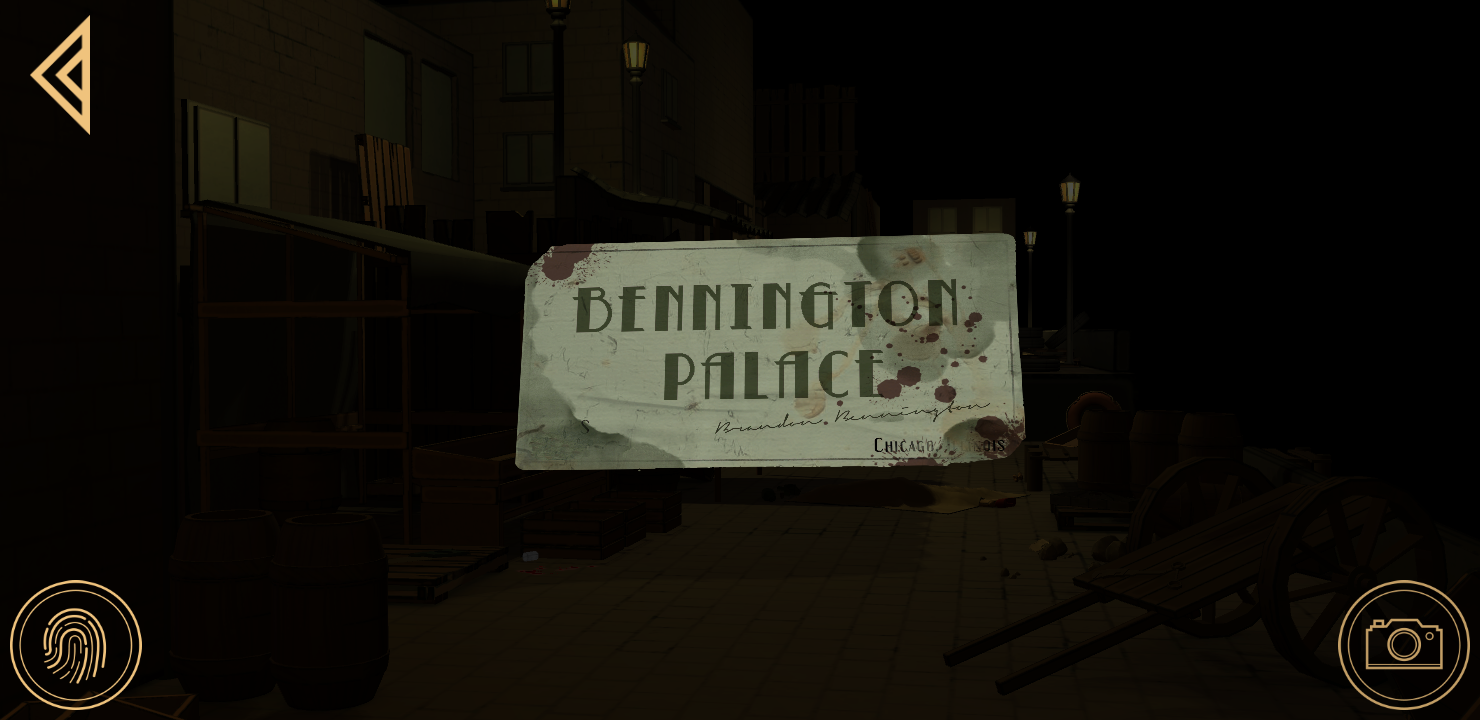
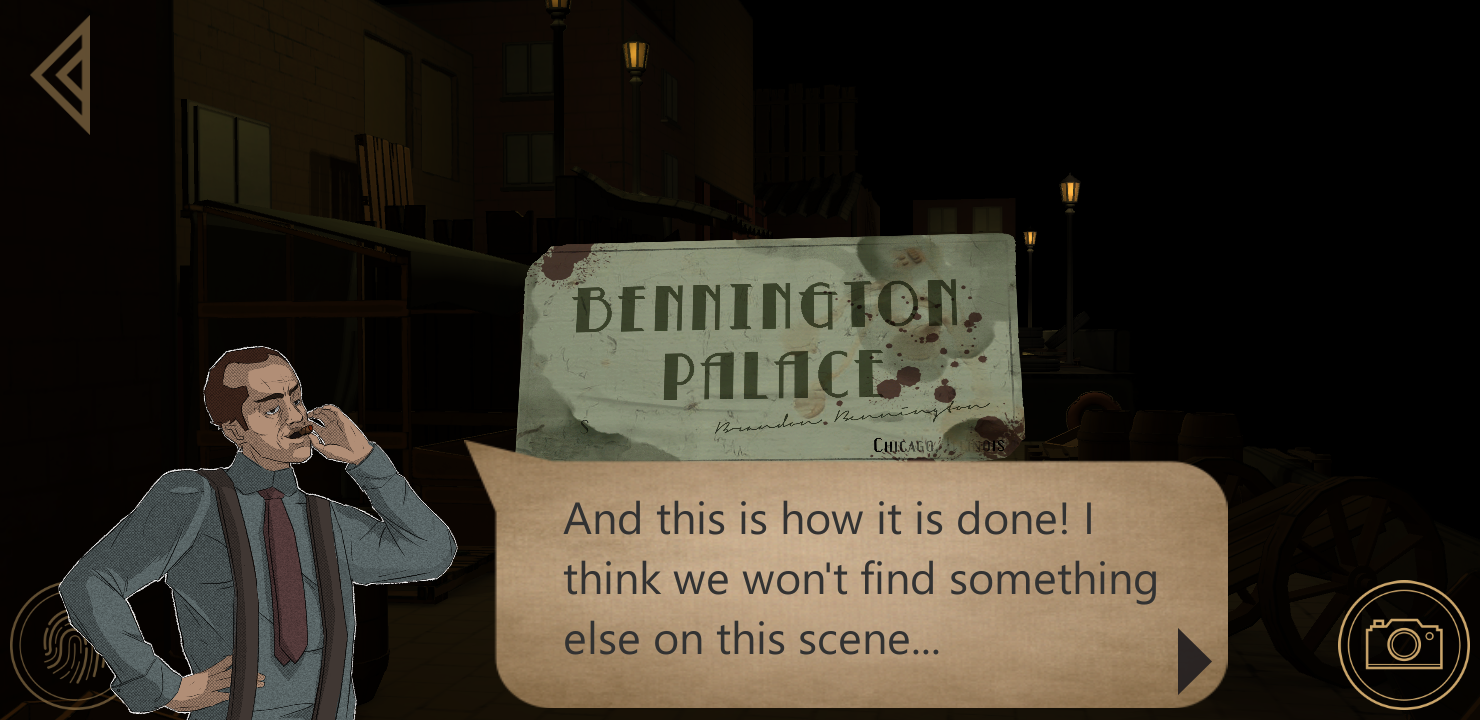
Et Docks le tuto ! // OU // Quoi de neuf Docks ?
Tu choisis mon gars

diff --git a/Dev/BlackWater Crimes Project/Assets/Scripts/EliotDev/TutorialScript.cs b/Dev/BlackWater Crimes Project/Assets/Scripts/EliotDev/TutorialScript.cs
@@ -10,7 +10,6 @@ public class TutorialScript : SerializedMonoBehaviour
     public GameObject dialogueCanvas;
     public Text dialogueUIText;
     public Image charaUIImage;
-    public Dictionary<string[], Sprite> dialogues = new Dictionary<string[], Sprite>();
 
 
     [Title("Dialogue Texts")]
@@ -25,6 +24,14 @@ public class TutorialScript : SerializedMonoBehaviour
     List<List<string>> currentDialogueLanguage = new List<List<string>>();
     int dialogueIndex = 0;
 
+    
+    
+    [Title("Dialogue Sprites")]
+
+    [ListDrawerSettings(ShowIndexLabels = true)]
+    public List<Sprite> dialoguesSprites = new List<Sprite>();
+    int spriteIndex = 0;
+
 
 
     [Title("Docks References")]
@@ -32,7 +39,6 @@ public class TutorialScript : SerializedMonoBehaviour
     public Dictionary<string, Button> buttons = new Dictionary<string, Button>();
     public Toggle fpToggle;
     public EvidenceInteraction evidenceScript;
-
 
 
     [Title("Game Data")]
@@ -47,24 +53,37 @@ public class TutorialScript : SerializedMonoBehaviour
     bool waitingForLetterInteraction = false;
     bool waitingForLetterText = false;
     bool waitingForLetterNoText = false;
-    bool waitingForLetterFPOn = false;
+    bool waitingForLetterFpOn = false;
+    bool waitingForLetterFpReveal = false;
+    bool waitingForLetterPhoto = false;
+    bool waitingForLetterDezoom = false;
+
+    bool waitingForLabelInteraction = false;
+    bool waitingForLabelPhoto = false;
+
+    bool waitingForDeskScene = false;
 
 
     void Start()
     {
-        DontDestroyOnLoad(this.gameObject);
-        switch (gameData.gameLanguage)
+        if(gameData.firstTimeInDocks)
         {
-            case Languages.English:
-                currentDialogueLanguage = englishDialogues;
-                break;
+            gameData.firstTimeInDocks = false;
+            DontDestroyOnLoad(this.gameObject);
+            switch (gameData.gameLanguage)
+            {
+                case Languages.English:
+                    currentDialogueLanguage = englishDialogues;
+                    break;
 
-            case Languages.French:
-                currentDialogueLanguage = frenchDialogues;
-                break;
+                case Languages.French:
+                    currentDialogueLanguage = frenchDialogues;
+                    break;
+            }
+
+            DockStart();
         }
-
-        DockStart();
+        else Destroy(this.gameObject);
     }
 
     void Update() 
@@ -112,9 +131,10 @@ public class TutorialScript : SerializedMonoBehaviour
                 waitingForLetterInteraction = false;
                 dialogueCanvas.SetActive(true);
 
-                dialogueIndex ++;
                 buttons["Photo"].interactable = false;
                 buttons["Dezoom"].interactable = false;
+
+                dialogueIndex ++;
                 NextLine();
             }
         }
@@ -143,11 +163,78 @@ public class TutorialScript : SerializedMonoBehaviour
             }
         }
 
-        else if (waitingForLetterFPOn)
+        else if (waitingForLetterFpOn)
         {
             if (fpToggle.isOn)
             {
-                waitingForLetterFPOn = false;
+                waitingForLetterFpOn = false;
+                dialogueCanvas.SetActive(true);
+
+                dialogueIndex ++;
+                NextLine();
+            }
+        }
+
+        else if (waitingForLetterFpReveal)
+        {
+            foreach (Intel intel in evidenceScript.currentEvidenceHeld.GetComponent<EvidenceObject>().data.intels)
+            {
+                if (intel.revealed)
+                { 
+                    waitingForLetterFpReveal = false;
+                    dialogueCanvas.SetActive(true);
+
+                    dialogueIndex ++;
+                    NextLine();
+                }
+            }
+        }
+
+        else if (waitingForLetterPhoto)
+        {
+            if (evidenceScript.currentEvidenceHeld.GetComponent<EvidenceObject>().data.photographed)
+            {
+                waitingForLetterPhoto = false;
+                dialogueCanvas.SetActive(true);
+
+                dialogueIndex ++;
+                NextLine();
+            }
+        }
+
+        else if (waitingForLetterDezoom) 
+        {
+            if (evidenceScript.currentEvidenceHeld == null)
+            {
+                waitingForLetterDezoom = false;
+                dialogueCanvas.SetActive(true);
+
+                dialogueIndex ++;
+                NextLine();
+            }
+        }
+
+        else if (waitingForLabelInteraction) 
+        {
+            if (evidenceScript.currentEvidenceHeld == clues["Label"])
+            {
+                waitingForLabelInteraction = false;
+                dialogueCanvas.SetActive(true);
+
+                buttons["Photo"].interactable = false;
+                buttons["Dezoom"].interactable = false;
+                fpToggle.interactable = false;
+
+                dialogueIndex ++;
+                NextLine();
+            }
+        }
+
+        else if (waitingForLabelPhoto) 
+        {
+            if (evidenceScript.currentEvidenceHeld.GetComponent<EvidenceObject>().data.photographed)
+            {
+                waitingForLabelPhoto = false;
                 dialogueCanvas.SetActive(true);
 
                 dialogueIndex ++;
@@ -186,7 +273,11 @@ public class TutorialScript : SerializedMonoBehaviour
         {
             List<string> tempList = currentDialogueLanguage[dialogueIndex];
             dialogueUIText.text = tempList[textIndex];
+
+            charaUIImage.sprite = dialoguesSprites[spriteIndex];
+
             textIndex ++;
+            spriteIndex ++;
         }
         else
         {
@@ -253,7 +344,48 @@ public class TutorialScript : SerializedMonoBehaviour
         else if(dialogueIndex == 6)
         {
             fpToggle.interactable = true;
-            waitingForLetterFPOn = true;
+            waitingForLetterFpOn = true;
+        }
+
+        else if(dialogueIndex == 7)
+        {
+            waitingForLetterFpReveal = true;
+        }
+
+        else if(dialogueIndex == 8)
+        {
+            buttons["Photo"].interactable = true;
+            waitingForLetterPhoto = true;
+        }
+
+        else if(dialogueIndex == 9)
+        {
+            buttons["Dezoom"].interactable = true;
+            waitingForLetterDezoom = true;
+        }
+        
+        else if (dialogueIndex == 10)
+        {
+            buttons["DownCamera"].interactable = true;
+            clues["Label"].GetComponent<Collider>().enabled = true;
+            foreach(Collider collider in clues["Label"].GetComponentsInChildren<Collider>())
+            {
+                collider.enabled = true;
+            }
+            waitingForLabelInteraction = true;
+        }
+
+        else if (dialogueIndex == 11)
+        {
+            buttons["Photo"].interactable = true;
+            waitingForLabelPhoto = true;
+        }
+
+        else if (dialogueIndex == 12)
+        {
+            buttons["Dezoom"].interactable = true;
+            buttons["ReturnDesk"].interactable = true;
+            waitingForDeskScene = true;
         }
     }
 

diff --git a/Dev/BlackWater Crimes Project/Assets/Scripts/MaxenceDev/Data System/GameData.cs b/Dev/BlackWater Crimes Project/Assets/Scripts/MaxenceDev/Data System/GameData.cs
@@ -291,6 +291,7 @@ public class GameData : SerializedScriptableObject
     [Title("Locations")]
     public List<Location> locations = new List<Location>();
     public bool locationsInList = false; // get; set; autoproperty
+    [HideInInspector] public bool firstTimeInDocks = true;
 
     [Title("Questions")]
     public Dictionary<Suspects, List<Question>> questions = new Dictionary<Suspects, List<Question>>();
@@ -357,6 +358,8 @@ public class GameData : SerializedScriptableObject
         interrogations = 3;
 
         newStuff = false;
+
+        firstTimeInDocks = true;
     }
 
     #region Test
